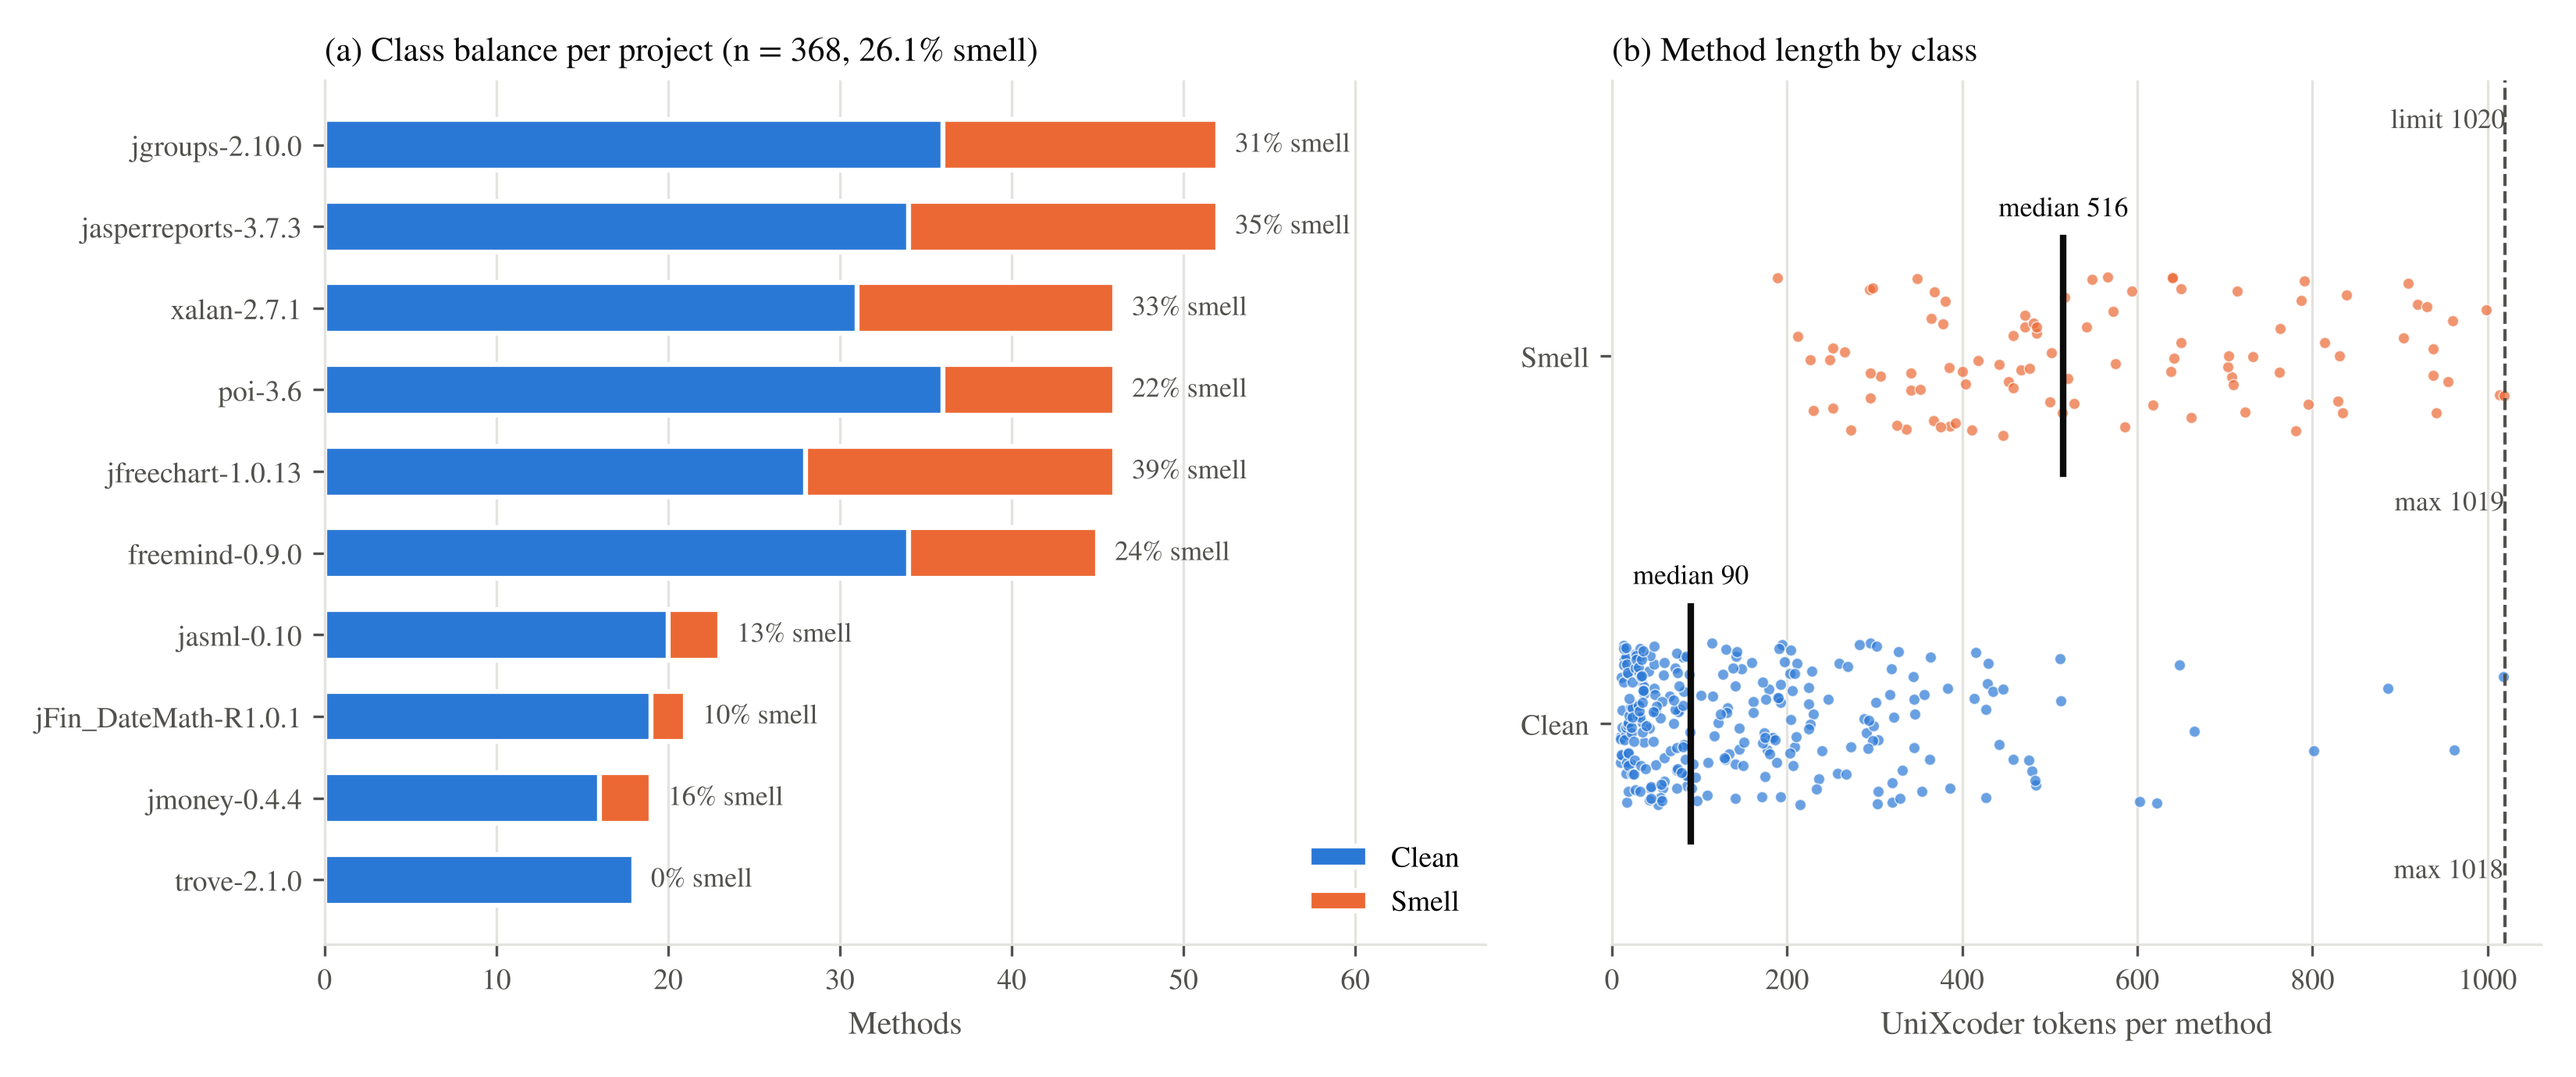
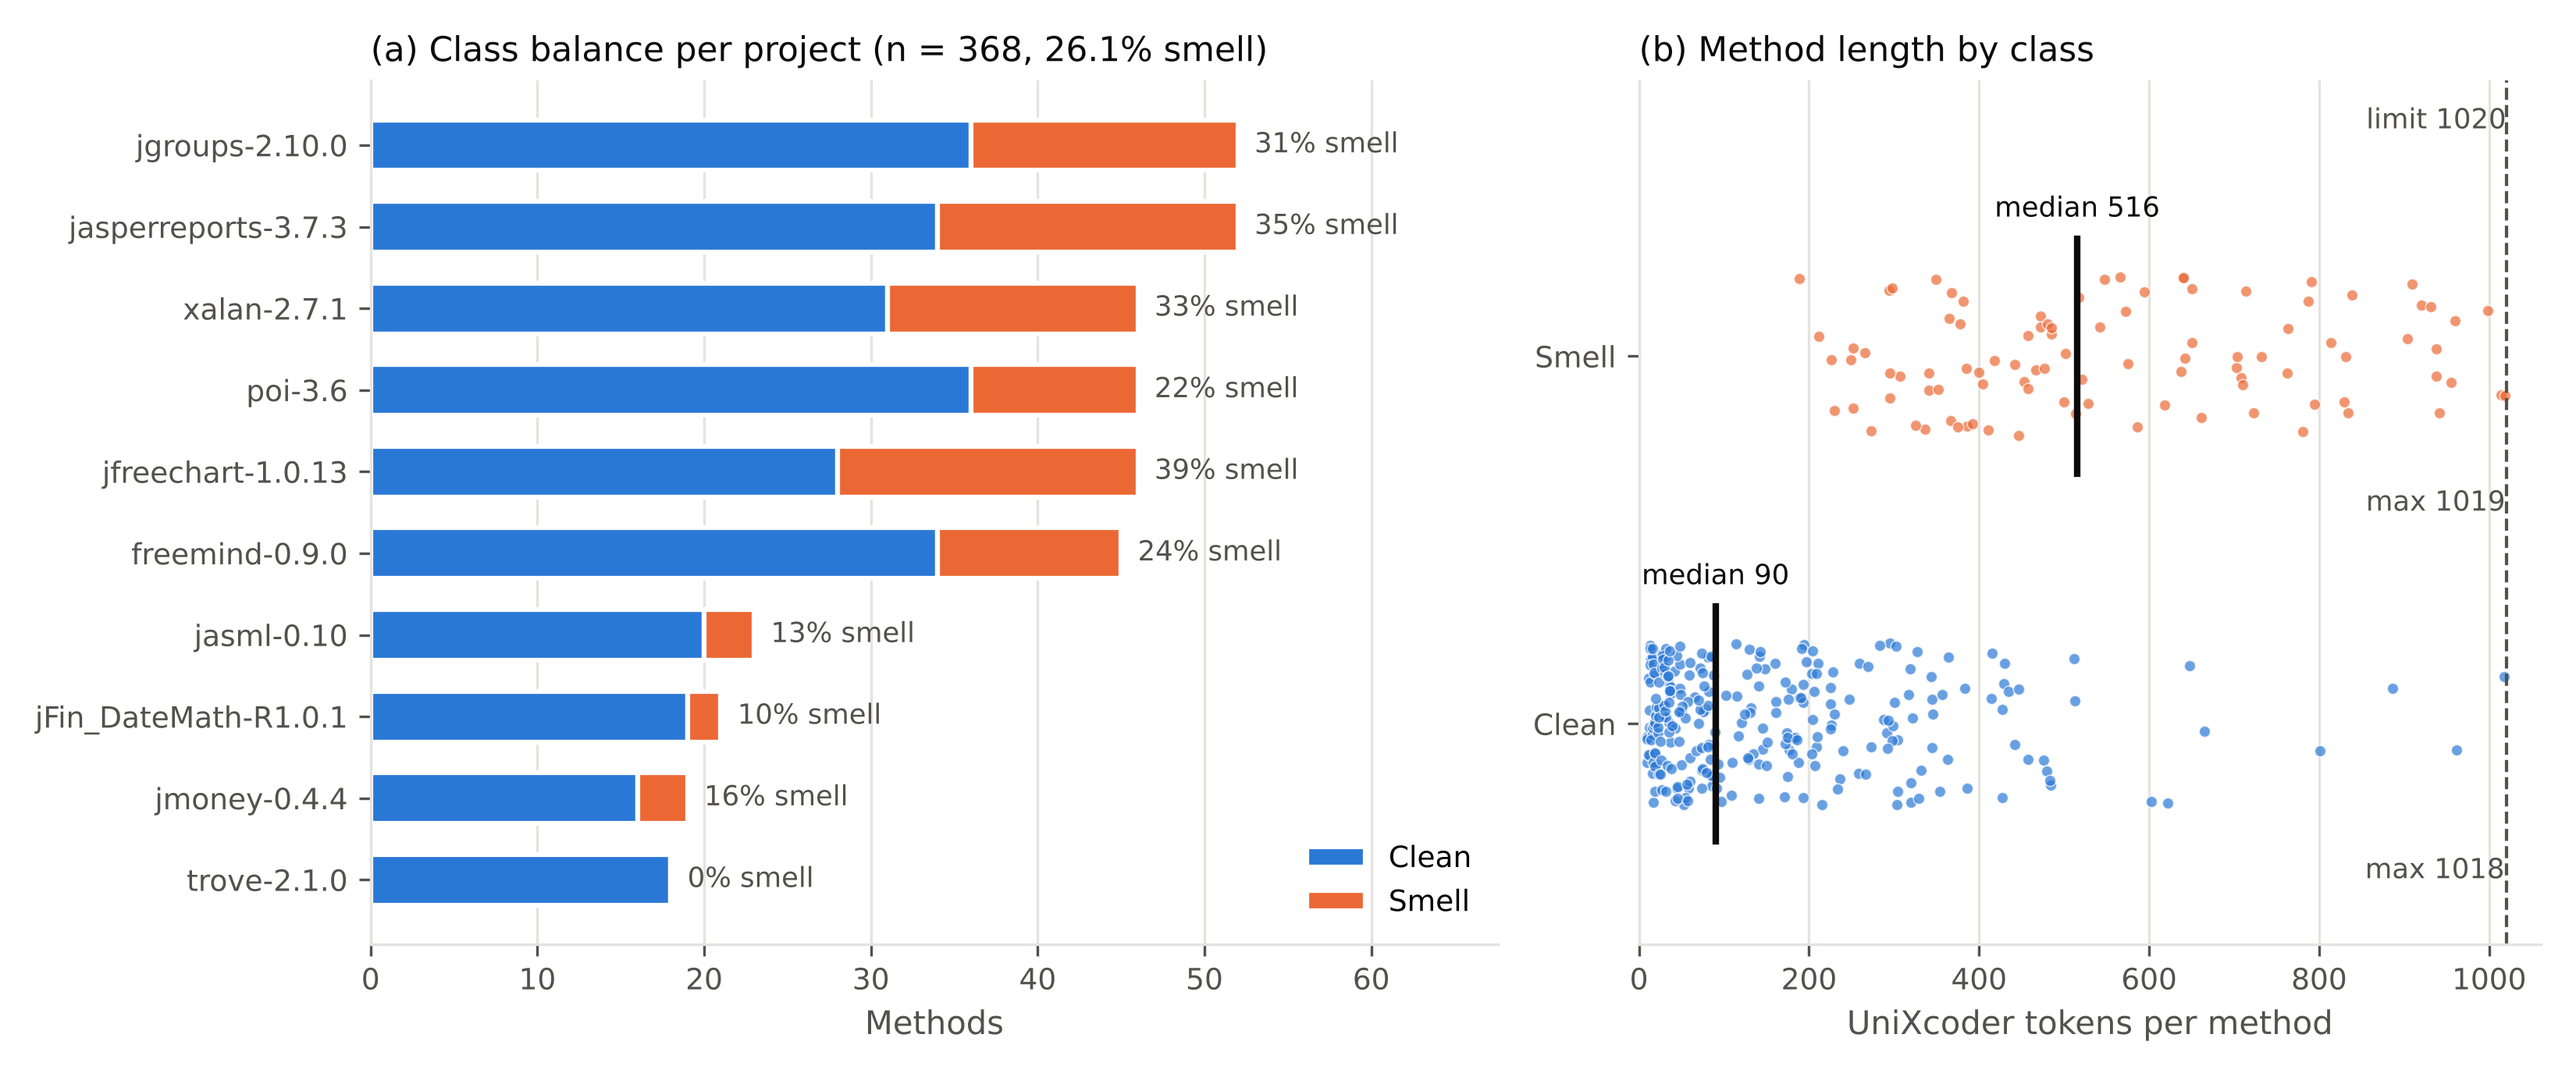
Use DejaVu Sans in the dataset figure
Matches matplotlib's default face, as used in the earlier paper's
figures, and keeps the output identical across machines.

Claude-Session: https://claude.ai/code/session_015naYrhHNuaxsE7RQB2VuVY

diff --git a/scripts/dataset_stats.py b/scripts/dataset_stats.py
@@ -63,8 +63,8 @@ def plot(stats, rows, tok_col, budget, out):
     matplotlib.use("Agg")
     import matplotlib.pyplot as plt
 
-    # STIX ships with matplotlib, so the serif face is the same on every machine
-    plt.rcParams.update({"font.family": "serif", "font.serif": ["STIXGeneral"], "mathtext.fontset": "stix"})
+    # DejaVu Sans ships with matplotlib, so the figure is the same on every machine
+    plt.rcParams.update({"font.family": "sans-serif", "font.sans-serif": ["DejaVu Sans"]})
 
     projects = sorted(stats[:-1], key=lambda s: s["total"])
     fig, (ax1, ax2) = plt.subplots(1, 2, figsize=(11, 4.6), gridspec_kw={"width_ratios": [1.25, 1]})
